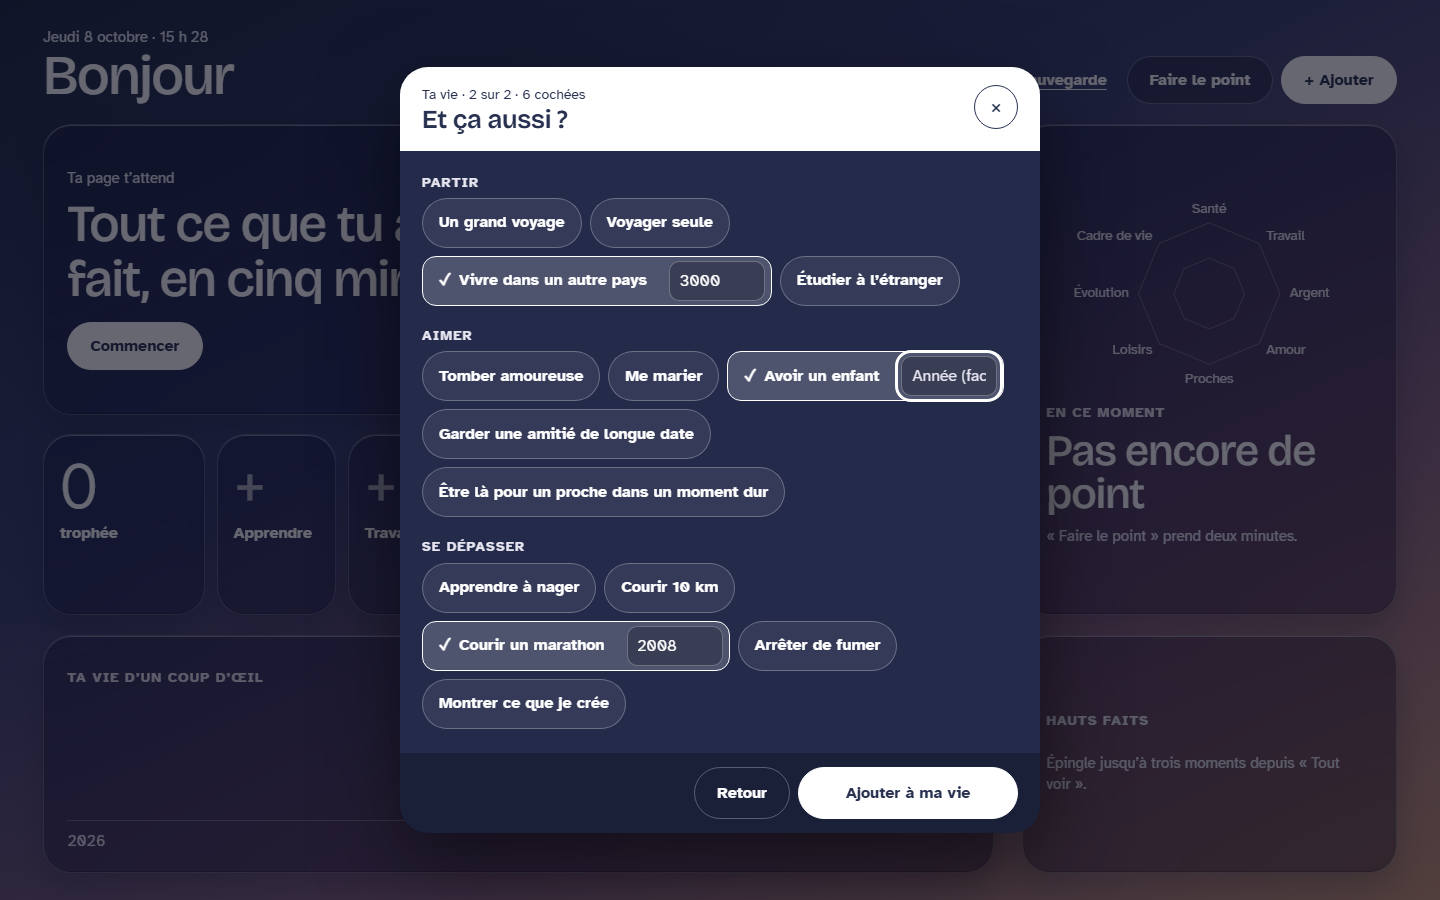
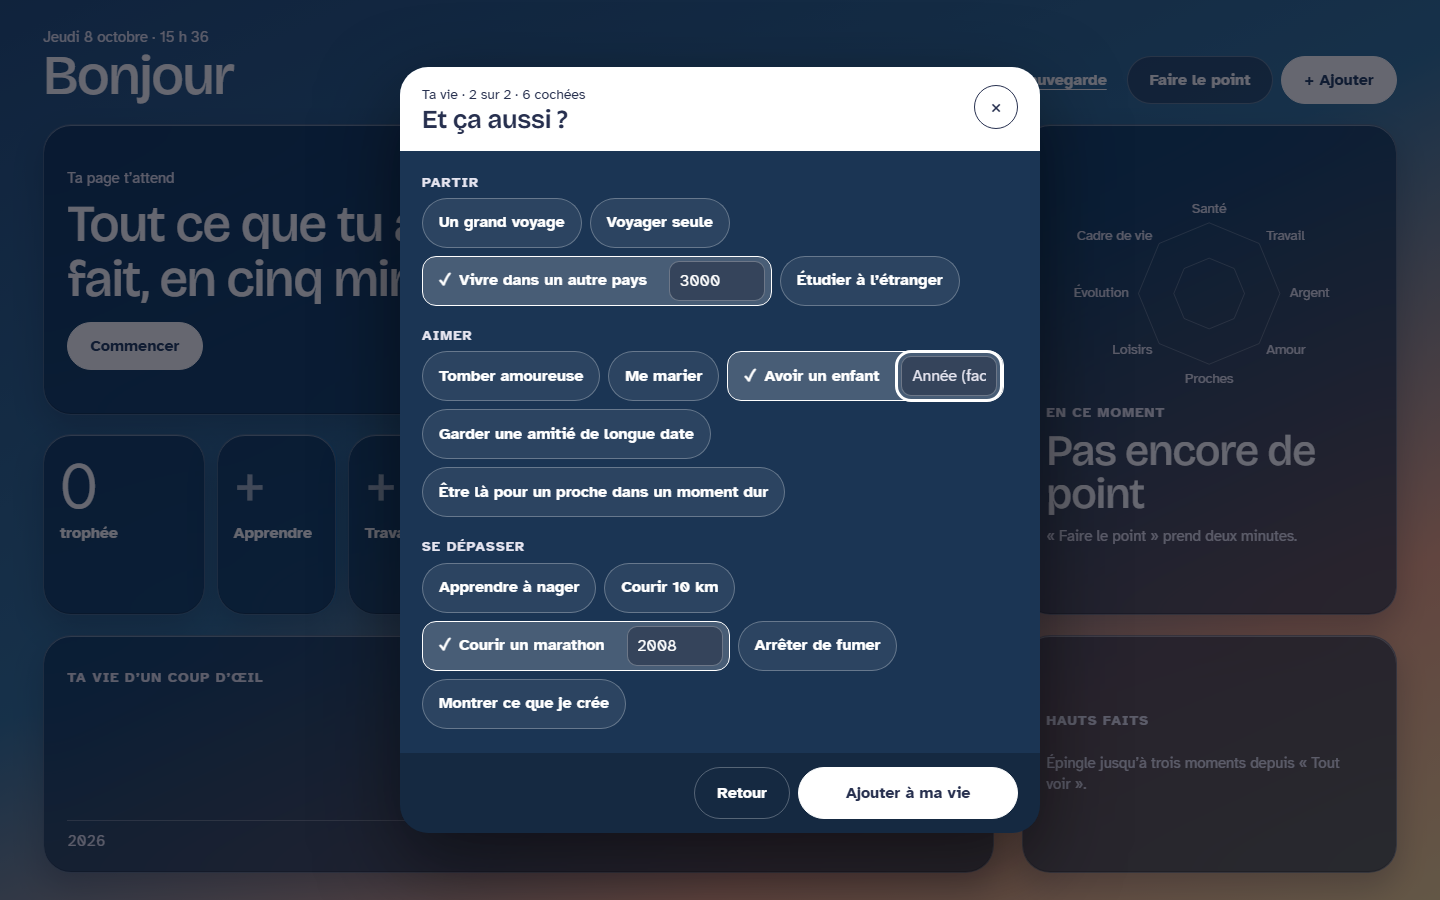
Trophées de vie : un coucher de soleil sur la mer
Le ciel passe du bleu ardoise et prune à un coucher de soleil sur la mer :
bleu océan, corail, sable. Il se décline toujours selon la météo du mois.
Le haut du ciel reste bleu profond et le verre est un peu plus dense, pour
que tous les textes et les trophées tiennent leur contraste, mesuré sur les
pixels par beau temps.

Changed region(s): [[0.8125, 0.4978, 1.0, 0.8711], [0.4062, 0.9644, 0.75, 1.0]]

diff --git a/trophees-de-vie/css/app.css b/trophees-de-vie/css/app.css
@@ -10,20 +10,21 @@
 :root{
   --body:"Atkinson Hyperlegible",Verdana,system-ui,sans-serif;
   --display:"Bricolage Grotesque","Trebuchet MS",system-ui,sans-serif;
-  --bg:#1F2A44; --ink:#FFFFFF; --muted:#E6E5F0; --line:rgba(255,255,255,.28); --or:#F7CF78; --sur-or:#3A2A00; --nuit:#27304F;
-  --verre:rgba(22,26,48,.48); --verre-opaque:#2A2F52; --volet:#232A4A; --volet-point:#2E2740;
-  --c1:#1D2742; --c2:#3A4070; --c3:#8A6480; --c4:#C99679;
+  --bg:#1E4C78; --ink:#FFFFFF; --muted:#E6E5F0; --line:rgba(255,255,255,.28); --or:#F7CF78; --sur-or:#3A2A00; --nuit:#1D3A5C;
+  --verre:rgba(10,36,64,.66); --verre-opaque:#274B6E; --volet:#1B3554; --volet-point:#3A3140;
+  /* Le ciel : un coucher de soleil sur la mer (Sophie aime la mer). Bleu océan, corail, sable. */
+  --c1:#1E4C78; --c2:#2F719A; --c3:#F2A680; --c4:#F8D592;
   color-scheme:dark;
 }
-:root[data-meteo="5"]{ --c1:#20305A; --c2:#44508C; --c3:#B07486; --c4:#E3AC7C }
-:root[data-meteo="3"]{ --c1:#1E2640; --c2:#383E66; --c3:#6E5C78; --c4:#9A8580 }
-:root[data-meteo="2"]{ --c1:#1C2336; --c2:#30364F; --c3:#4D4E66; --c4:#6C6A78 }
-:root[data-meteo="1"]{ --c1:#171C2A; --c2:#252A3B; --c3:#353A4C; --c4:#474C5C }
+:root[data-meteo="5"]{ --c1:#205488; --c2:#33789F; --c3:#F7AE86; --c4:#FBDB98 }
+:root[data-meteo="3"]{ --c1:#254A6B; --c2:#3F6F8A; --c3:#B8978A; --c4:#CDBB9A }
+:root[data-meteo="2"]{ --c1:#27425A; --c2:#476A7E; --c3:#7F8088; --c4:#9A978E }
+:root[data-meteo="1"]{ --c1:#1F3144; --c2:#33495A; --c3:#4A5560; --c4:#5E666C }
 
 *{box-sizing:border-box}
 [hidden]{display:none !important}
 html,body{height:100%}
-body{margin:0;background:linear-gradient(155deg,var(--c1) 0%,var(--c2) 38%,var(--c3) 70%,var(--c4) 100%) fixed var(--bg);color:var(--ink);font:16px/1.4 var(--body)}
+body{margin:0;background:linear-gradient(155deg,var(--c1) 0%,var(--c2) 46%,var(--c3) 78%,var(--c4) 100%) fixed var(--bg);color:var(--ink);font:16px/1.4 var(--body)}
 h1,h2,p,ul{margin:0}
 button,input{font:inherit;color:inherit}
 button{cursor:pointer}

diff --git a/trophees-de-vie/js/app.js b/trophees-de-vie/js/app.js
@@ -4,10 +4,10 @@
 
 // Le numéro suit celui d'index.html : Pages garde un fichier dix minutes, et sans lui
 // un nouvel app.js pourrait charger une ancienne configuration.
-import { ouvrir, demanderPersistance } from './stockage.js?v=5';
-import { NIVEAUX, CATEGORIES, REUSSITES, CATALOGUE } from './config/vie.js?v=5';
-import { DOMAINES, METEOS, ELANS, MOIS, JOURS } from './config/domaines.js?v=5';
-import { lire, definition, rarete, medaille, dejaFaites, comptes, parCategorie, hautsFaits, ruban, souvenirDuJour, dernierPoint, pointDavant, phraseRoue } from './coeur.js?v=5';
+import { ouvrir, demanderPersistance } from './stockage.js?v=6';
+import { NIVEAUX, CATEGORIES, REUSSITES, CATALOGUE } from './config/vie.js?v=6';
+import { DOMAINES, METEOS, ELANS, MOIS, JOURS } from './config/domaines.js?v=6';
+import { lire, definition, rarete, medaille, dejaFaites, comptes, parCategorie, hautsFaits, ruban, souvenirDuJour, dernierPoint, pointDavant, phraseRoue } from './coeur.js?v=6';
 
 const NS = 'http://www.w3.org/2000/svg';
 const $ = (id) => document.getElementById(id);

diff --git a/trophees-de-vie/index.html b/trophees-de-vie/index.html
@@ -5,10 +5,10 @@
 <meta name="viewport" content="width=device-width,initial-scale=1">
 <title>Trophées de vie</title>
 <meta name="description" content="Tout ce que tu as fait dans ta vie, sur une seule page.">
-<meta name="theme-color" content="#1F2A44">
+<meta name="theme-color" content="#1E4C78">
 <link rel="icon" href="icone.svg" type="image/svg+xml">
 <link rel="preload" href="polices/bricolage.woff2" as="font" type="font/woff2" crossorigin>
-<link rel="stylesheet" href="css/app.css?v=5">
+<link rel="stylesheet" href="css/app.css?v=6">
 </head>
 <body>
 <div class="page">
@@ -54,6 +54,6 @@
 </div>
 <div class="toast" id="toast" role="status" aria-live="polite"></div>
 
-<script type="module" src="js/app.js?v=5"></script>
+<script type="module" src="js/app.js?v=6"></script>
 </body>
 </html>
